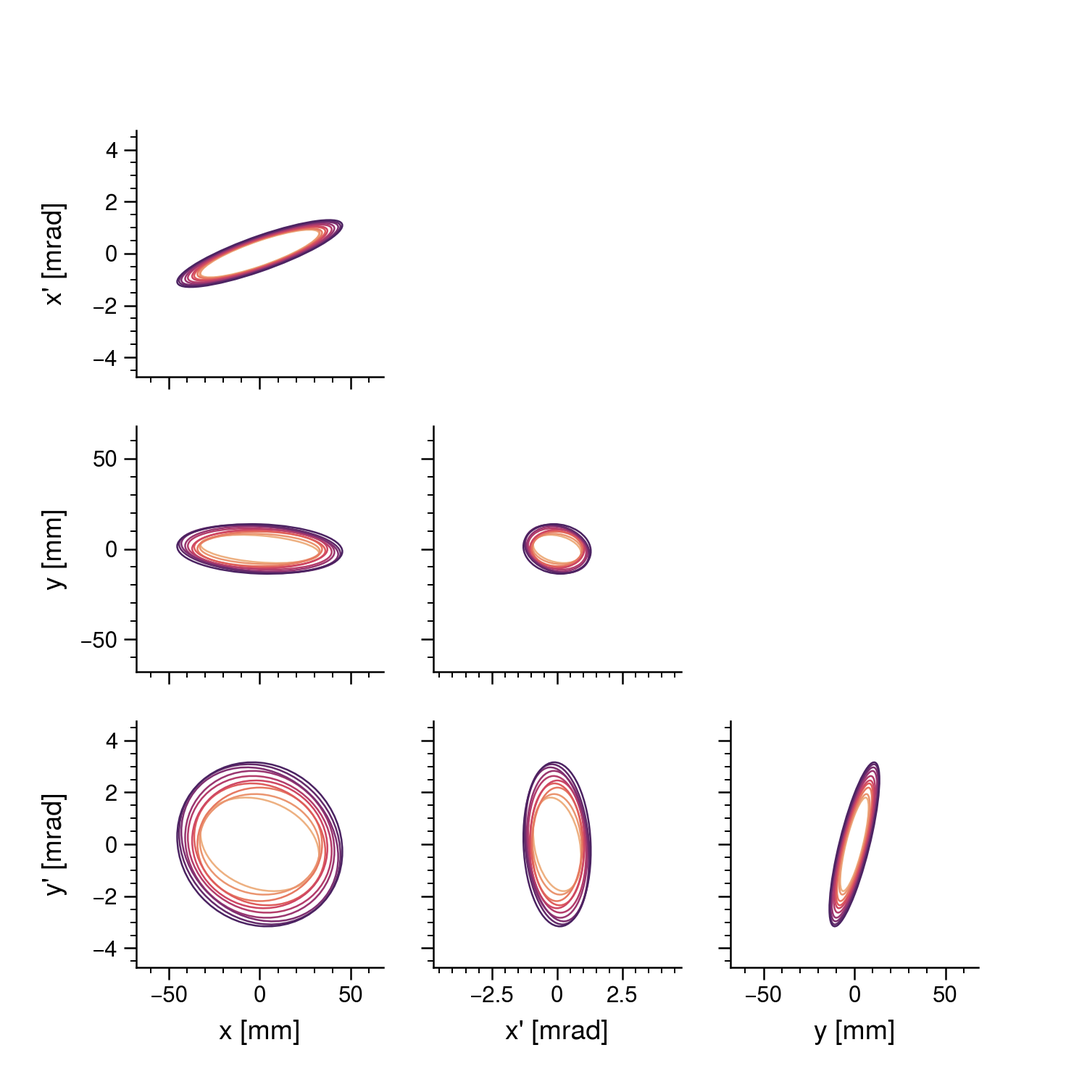
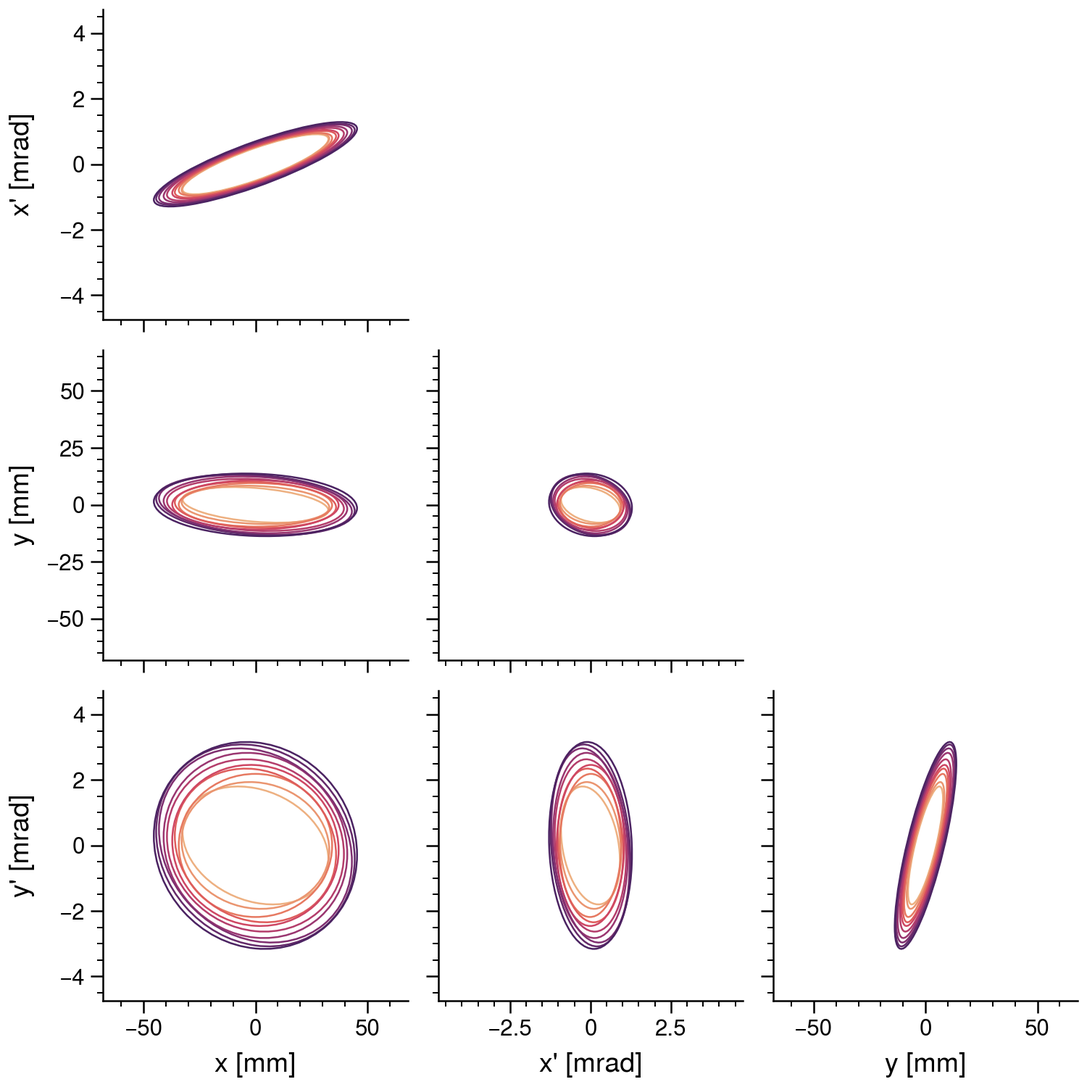
Condense reconstructed emittance figures

diff --git a/MainText/chapter5.tex b/MainText/chapter5.tex
@@ -1,7 +1,7 @@
 \chapter{Experiments} \label{chap-5}
 
 [Grammar is unchecked...]
-This chapter presents the results of initial experimental studies of elliptical painting at the SNS. The simulations in chapter \ref{chap-2}-\ref{chap-3} were used to guide the experiments, and the diagnostics described in chapter \ref{chap-4} were used to measure the painted distribution. Recall from chapter \ref{chap-3} that solenoid magnetic fields should help the distribution remain close to a Danilov distribution during injection; solenoid magnets were planned to be installed in the SNS ring in 2021, but their installation was delayed until mid-2022, outside the dogmatic of this dissertation. Thus, the beams created in the following experiments were not expected to be optimal. Nonetheless, it was hoped that the beams would be clearly distinguishable from a production beam produced by correlated painting. 
+This chapter presents the results of initial experimental studies of elliptical painting at the SNS. The simulations in chapter \ref{chap-2}-\ref{chap-3} were used to guide the experiments, and the diagnostics described in chapter \ref{chap-4} were used to measure the painted distribution. Recall from chapter \ref{chap-3} that solenoid magnetic fields should help the distribution remain close to a Danilov distribution during injection; solenoid magnets were planned to be installed in the SNS ring in 2021, but their installation was delayed until mid-2022, outside the timeframe of this dissertation. Thus, the beams created in the following experiments were not expected to be optimal. Nonetheless, it was hoped that the beams would be clearly distinguishable from a production beam produced by correlated painting. 
 
 
 \section{Procedure}
@@ -15,16 +15,16 @@ The following steps are taken during the experimental setup:
     The beam energy is lowered from 1.0 GeV to 0.8 GeV by turning off several RF cavities at the end of the linac. This is performed by the SNS operations team. Generally, lowering the energy causes other accelerator components to trip or malfunction due to the modified timing system; these must be corrected one-by-one. The first attempt to lower the energy to 0.8 GeV took over six hours.
     %
     \item
-    The horizontal and vertical tunes are set to the same value using the Ring Optics Control (ROC) application. ROC varies several quadrupoles until the model tunes are equal to the desired tunes. The tunes are measured using turn-by-turn BPM readings from a single minipulse in the ring. Generally, the measured and model tunes are not quite equal; we therefore shift the ROC input tunes until they agree with the measured tunes. The measured tunes are assumed to be accurate to at least two decimal places.
+    The horizontal and vertical tunes are set to the same value using the Ring Optics Control (ROC) application. ROC varies several quadrupoles until the model tunes are equal to the desired tunes. The tunes are measured using turn-by-turn BPM readings from a single minipulse in the ring. Generally, the measured and model tunes are not quite equal; we therefore shift the ROC input tunes until the measured tunes converge to the desired tunes. 
     %
     \item
-    (Optional: Modify the injection region in some way to increase the effective kicker strength.)
+    (Optional: Modify the injection region in some way to assist the injection kickers.)
     %
     \item
     The eight injection kicker magnets are calibrated using the Ring Injection Control (RIC) application, as described in chapter \ref{chap-1}. 
     %
     \item
-    The initial/final kicker voltages are determined to obtain the desired closed-orbit coordinates at the foil, as described in \ref{chap-1}.
+    The initial/final kicker voltages are determined to obtain the desired closed-orbit coordinates at the foil, as described in chapter \ref{chap-1}.
     %
     \item
     The initial/final voltages are connected with a square root waveform; the waveform is applied to the injection kickers. The duration of the waveform — the painting time — is chosen at this step but can be easily changed later on. The painting time determines the number of minipulses in the final distribution; i.e., the beam intensity.
@@ -34,20 +34,22 @@ The following steps are taken during the experimental setup:
     %
 \end{enumerate}
 %
-The next task is to prepare for the measurements. For the wire-scanner measurement, the first step is to modify the RTBT optics using the application developed as part of this dissertation. If the fixed-optics method is used, the optics are changed immediately. If the multi-optics method is used, the optics are pre-computed and stored for later use. The SNS employs a sophisticated machine protection system (MPS) that will cause the machine to trip if the RTBT quadrupole strengths wander outside a certain window, so this window is extended beforehand. Additionally, MPS will activate if the fractional change in field strength is too large; to solve this problem, the field strength is changed in small steps. Wire-scanner data acquisition is performed by the Profile Tools and Analysis (PTA) application. The beam is set to a pulse frequency of 1 Hz, and the beam loss monitors in the wire-scanner region are masked due to the higher-than-normal losses when the wires cross the beam core. After the four wire-scanners complete their scan, a time-stamped file containing the measured profiles along with their statistical properties (mean, standard deviation, etc.). 
+The next task is to prepare for the measurements. For the wire-scanner measurement, the first step is to modify the RTBT optics using the application developed as part of this dissertation. If the fixed-optics method is used, the optics are changed immediately. If the multi-optics method is used, the optics are pre-computed and stored for later use. The SNS employs a sophisticated machine protection system (MPS) that will cause the machine to trip if the RTBT quadrupole strengths wander outside a certain window, so this window is extended beforehand. Additionally, MPS will activate if the fractional change in field strength is too large; to solve this problem, the field strength is changed in small steps. Wire-scanner data acquisition is performed by the Profile Tools and Analysis (PTA) application. The beam is set to a pulse frequency of 1 Hz, and the beam loss monitors in the wire-scanner region are masked due to the higher-than-normal losses when the wires cross the beam core. After the four wire-scanners complete their scan, a time-stamped file is produced containing the measured profiles.
 
-The second measurement is the tomographic reconstruction from $x$-$y$ projections on the target. Since the optics calculation is time-consuming, it is generally run in the background while wire-scans are collected; the quadrupole strengths are saved to a file. Since the use the target images for tomographic reconstruction was proposed late in this research, the target scan was only performed in the last of the following experiments.
+The second measurement is the tomographic reconstruction from $x$-$y$ projections on the target. Since the optics calculation is time-consuming, it can be run in the background while wire-scans are collected. Since the use the target images for tomographic reconstruction was proposed late in this research, the target scan was only performed in the last of the following experiments.
 
 
 \section{Experiment 1}
 
-The SNS reserves approximately one day per month for accelerator physics experiments, and various experiments must compete for time within this twenty-four hour period. At the time of our first experiment, setup of the injection region using the RIC application had not yet been completed; although simulations indicated that the kickers were not strong enough to perform elliptical painting at 1 GeV kinetic energy, this had not been tested in reality. And the SNS energy had not yet been decreased — a time-consuming and possibly error-prone task. The goal of Experiment 1 was therefore to push the injected coordinates $x$ and $y'$ to their limits at 1 GeV.
+The SNS reserves approximately one day per month for accelerator physics experiments, and various experiments must compete for time within this twenty-four hour period. At the time of our first experiment, setup of the injection region using the RIC application had not yet been completed. Although simulations indicated that the kickers were not strong enough to perform elliptical painting at 1 GeV kinetic energy, this had not been tested. And the SNS energy had not yet been decreased — a time-consuming and possibly error-prone task. The goal of Experiment 1 was therefore to push the injected coordinates $x$ and $y'$ to their limits at 1 GeV.
 
 Simulations predict that the distribution will undergo significant change during injection, especially without the presence of solenoid magnets in the ring; therefore, it is interesting to measure the distribution not only at its final state, but also at the intermediate states. Using the fixed-optics method, ten measurements can be performed within one hour. 
 
-\subsection{Correlated painting}
+\subsection{Experiment 1a: correlated painting}
 
-Before setting up for elliptical painting, a production beam was measured for comparison. Recall that a production beam is produced using correlated painting: the displacements at the foil are increased from an initial offset to their final value, and the slope at the foil is always zero. The number of injected turns was reduced from 1000 to 500, and the beam was measured every 50 turns. The measured wire-scanner profiles are shown in Fig.~\ref{fig:exp1a_wsmeas}, and the reconstructed emittances and covariance ellipses are shown in Fig.~\ref{fig:exp1a_emittances}.
+Before setting up for elliptical painting, a production beam was measured for comparison. Recall that a production beam is produced using correlated painting: the displacements at the foil are increased from an initial offset to their final value, and the slope at the foil is always zero. The number of injected turns was reduced from 1000 to 500, and the beam was measured every 50 turns. 
+
+The measured wire-scanner profiles are shown in Fig.~\ref{fig:exp1a_wsmeas}, and the reconstructed emittances and covariance ellipses are shown in Fig.~\ref{fig:exp1a_emittances}.
 %
 \begin{figure}[!p]
     \centering
@@ -60,7 +62,7 @@ Before setting up for elliptical painting, a production beam was measured for co
     \begin{subfigure}{\textwidth}
         \includegraphics[width=\textwidth]{Images/chapter5/exp1a/rms.png}
     \end{subfigure}
-    \caption{Measured wire-scanner profiles during injection for a 1 GeV production beam, 500 injected turns.}
+    \caption{Measured wire-scanner profiles of a 1GeV production beam during injection (500 injected turns).}
     \label{fig:exp1a_wsmeas}
 \end{figure}
 %
@@ -68,13 +70,11 @@ Before setting up for elliptical painting, a production beam was measured for co
 \begin{figure}[!p]
     \centering
     \begin{subfigure}{0.6\textwidth}
-        \includegraphics[width=\textwidth]{Images/chapter5/exp1a/emittances.png}
-    \end{subfigure}
-    \vfill
-    \vspace*{0.0cm}
-    \vfill
-    \begin{subfigure}{0.8\textwidth}
         \includegraphics[width=\textwidth]{Images/chapter5/exp1a/corner.png}
+    \end{subfigure}
+    \hfill
+    \begin{subfigure}{0.39\textwidth}
+        \includegraphics[width=\textwidth]{Images/chapter5/exp1a/emittances.png}
     \end{subfigure}
     \caption{Reconstructed emittances and covariance ellipses of a 1 GeV production beam during injection (500 turns). In this and subsequent figures, light/dark ellipses correspond to the start/end of injection.}
     \label{fig:exp1a_emittances}
@@ -83,14 +83,15 @@ Before setting up for elliptical painting, a production beam was measured for co
 
 Each subplot in Fig.~\ref{fig:exp1a_wsmeas} shows the evolution of the projection onto a single wire during injection; each row corresponds to a different wire-scanner and each column corresponds to a different projection axis — $x$, $y$, or $u$. That the closed orbit starts offset from the foil is evident from initial two peaks in the $x$ and $y$ projections. The distribution forms a ring or donut in $x$-$x'$ and $y$-$y'$, and the hollow center eventually becomes partially filled due to space charge and other nonlinear effects.
 
-The main feature of Fig.~\ref{fig:exp1a_emittances} is that there is very little measured cross-plane correlation in the beam, as expected for the correlated painting method. The error bars are instead calculated by repeating the reconstruction many times with noise added to the measured moments, then taking the mean and standard deviation over the trials. Previous measurements indicate that the moments estimated from the profiles have less than 2\% variation if repeated multiple times. This can lead to asymmetric error bars, which will be shown in the next sections. 
+The main feature of Fig.~\ref{fig:exp1a_emittances} is that there is very little measured cross-plane correlation in the beam, as expected for the correlated painting method. The error bars are calculated by repeating the reconstruction many times with noise added to the measured moments, then taking the mean and standard deviation over the trials. This can lead to asymmetric error bars, which will be shown in the next sections. (Previous measurements indicate that the moments estimated from the profiles have less than 2\% variation if repeated multiple times.)
+
 
 [Simulation]
 
 
-\subsection{Elliptical-ish painting}
+\subsection{Experiment 1b: elliptical-ish painting}
 
-Next, we attempted to carry out elliptical painting. First, [as shown in Fig.~\ref{},] the horizontal and vertical tunes were set to 6.18. Then, next was to move the closed orbit to the foil. This was found to be possible in the vertical plane but impossible in the horizontal plane; the minimum distance from the foil was 10 mm. Additionally, the maximum possible vertical slope was 0.7 mrad. It was decided to continue with the painting method using initial coordinates: ($x$, $x'$, $y$, $y'$) $\approx$ (10 mm, 0 mrad, 0 mm, 0 mrad) and final coordinates: ($x$, $x'$, $y$, $y'$) $\approx$ (21 mm, 0 mrad, 0 mm, 0.7 mrad). The initial beam would be a donut in $x$-$x'$ and a point in $y$-$y'$. In real space, it would be a flat horizontal line with higher density on the two ends of the line. In other words, injected particles would move along an ellipse in the $x$-$y$ plane with zero vertical size. As time progressed, the horizontal and vertical size of the ellipse would grow at different rates depending on the maximum painting $x$ and $y'$ coordinates. This is all assuming linear transport and non-interacting particles. Without a computer, it is unclear what would happen with the inclusion of space charge.
+Next, we attempted to carry out elliptical painting. First, [as shown in Fig.~\ref{},] the horizontal and vertical tunes were set to 6.18. The next step was to move the closed orbit to the foil. This was found to be possible in the vertical plane but impossible in the horizontal plane; the minimum distance from the foil was 10 mm. Additionally, the maximum possible vertical slope was 0.7 mrad. It was decided to continue with the painting method using initial coordinates: ($x$, $x'$, $y$, $y'$) $\approx$ (10 mm, 0 mrad, 0 mm, 0 mrad) and final coordinates: ($x$, $x'$, $y$, $y'$) $\approx$ (21 mm, 0 mrad, 0 mm, 0.7 mrad). The initial beam would be a donut in $x$-$x'$ and a point in $y$-$y'$. In real space, it would be a flat horizontal line with higher density on the two ends of the line. In other words, injected particles would move along an ellipse in the $x$-$y$ plane with zero vertical size. As time progressed, the horizontal and vertical size of the ellipse would grow at different rates depending on the maximum painting $x$ and $y'$ coordinates. This is all assuming linear transport and non-interacting particles. Without a computer, it is unclear what would happen with the inclusion of space charge.
 
 [... We should probably show some screenshots of the RIC application. Maybe not here, but somewhere. ...]
 
@@ -107,7 +108,7 @@ The measured wire-scanner profiles are shown in Fig.~\ref{fig:exp1b_wsmeas}, and
     \begin{subfigure}{\textwidth}
         \includegraphics[width=\textwidth]{Images/chapter5/exp1b/rms.png}
     \end{subfigure}
-    \caption{Measured wire-scanner profiles during injection for a 1 GeV beam. Initial injected coordinates: ($x$, $x'$, $y$, $y'$) $\approx$ (10 mm, 0 mrad, 0 mm, 0 mrad). Final injected coordinates: ($x$, $x'$, $y$, $y'$) $\approx$ (21 mm, 0 mrad, 0 mm, 0.7 mrad).}
+    \caption{Measured wire-scanner profiles of a 1 GeV beam during injection. Initial injected coordinates: ($x$, $x'$, $y$, $y'$) $\approx$ (10 mm, 0 mrad, 0 mm, 0 mrad). Final injected coordinates: ($x$, $x'$, $y$, $y'$) $\approx$ (21 mm, 0 mrad, 0 mm, 0.7 mrad).}
     \label{fig:exp1b_wsmeas}
 \end{figure}
 %
@@ -115,32 +116,60 @@ The measured wire-scanner profiles are shown in Fig.~\ref{fig:exp1b_wsmeas}, and
 \begin{figure}[!p]
     \centering
     \begin{subfigure}{0.6\textwidth}
-        \includegraphics[width=\textwidth]{Images/chapter5/exp1b/emittances.png}
-    \end{subfigure}
-    \vfill
-    \vspace*{-0.2cm}
-    \vfill
-    \begin{subfigure}{0.8\textwidth}
         \includegraphics[width=\textwidth]{Images/chapter5/exp1b/corner.png}
     \end{subfigure}
-    \caption{Reconstructed emittances and covariance ellipses for a 1 GeV beam. Initial injected coordinates: ($x$, $x'$, $y$, $y'$) $\approx$ (10 mm, 0 mrad, 0 mm, 0 mrad). Final injected coordinates: ($x$, $x'$, $y$, $y'$) $\approx$ (21 mm, 0 mrad, 0 mm, 0.7 mrad).}
+    \hfill
+    \begin{subfigure}[t]{0.39\textwidth}
+        \includegraphics[width=\textwidth]{Images/chapter5/exp1b/emittances.png}
+    \end{subfigure}
+    \caption{Reconstructed emittances and covariance ellipses of a 1 GeV beam. Initial injected coordinates: ($x$, $x'$, $y$, $y'$) $\approx$ (10 mm, 0 mrad, 0 mm, 0 mrad). Final injected coordinates: ($x$, $x'$, $y$, $y'$) $\approx$ (21 mm, 0 mrad, 0 mm, 0.7 mrad).}
     \label{fig:exp1b_emittances}
 \end{figure}
 %
 Notice the difference in the growth of the vertical beam size in comparison with the horizontal size. The $x$-$x'$ distribution is a donut that fills in over time while also growing in radius, hence the relative lack of growth in the horizontal beam size. The vertical beam size, on the other hand, starts at a small value and increases throughout injection, as desired. Additionally, there is now a clear separation between the intrinsic emittances.
 
-[Some thoughts: Might want to mention something about the comparison with the target images. We seem to be over-estimating the horizontal size and under-estimating the vertical size. Additionally, although the initial image is significantly tilted, the wire-scanner measurement gets the tilt angle wrong. This decreases my trust in these measurements. On the other hand, the $x$-$x'$ reconstruction has produced values very close to the model prediction for a production beam. Also, the intrinsic emittances are a complicated function of the beam moments, so they are probably not so sensitive to these systematic errors. Maybe what we have is some systematic error in the beam size due to the small number of points in the wire-scans?]
+[Some thoughts: Might want to mention something about the comparison with the target images. We seem to be over-estimating the horizontal size and under-estimating the vertical size. Additionally, although the initial image is significantly tilted, the wire-scanner measurement gets the tilt angle wrong. This decreases my trust in these measurements. On the other hand, the $x$-$x'$ reconstruction has produced values that are close to the model prediction for a production beam. Also, the intrinsic emittances are a complicated function of the beam moments, so they are probably not so sensitive to these systematic errors. Maybe what we have is some systematic error in the beam size due to the small number of points in the wire-scans?]
+
+We close with a PIC simulation of this case in Fig.~\ref{fig:exp1b_sim}. 
+%
+\begin{figure}[!p]
+    \centering
+    \begin{subfigure}{0.85\textwidth}
+        \includegraphics[width=\textwidth]{Images/chapter5/exp1b/sim_snapshots.png}
+    \end{subfigure}
+    \vfill
+    \vspace*{1.0cm}
+    \vfill
+    \begin{subfigure}{0.7\textwidth}
+        \includegraphics[width=\textwidth]{Images/chapter5/exp1b/sim_emittances.png}
+    \end{subfigure}
+    \caption{Simulation of experiment 1b. [RE-RUN WITH SLICED SPACE CHARGE AND TRANSVERSE IMPEDANCE.]}
+    \label{fig:exp1b_sim}
+\end{figure}
+%
+Again, keep in mind that the $\beta$ functions at the injection point are not exactly the same as in the experiment, so the absolute values of the emittances are not expected to agree. Instead, we hope to see qualitative agreement with the measured emittance growth. And we do: the e 
+
 
 
 
 \section{Experiment 2}
 
-In Experiment 2, the beam energy was lowered to 0.8 GeV for the first time. The closed orbit was successfuly reached to the foil, and a maximum vertical slope of 1.1 mrad was achieved. 
+In Experiment 2, the beam energy was lowered to 0.8 GeV for the first time. The closed orbit was able to reach the foil, and a maximum vertical slope of ${y'}_{max} \approx 1.1$ mrad was achieved. This is significantly smaller that the 1.7 mrad used in the simulations from \cite{Holmes2018}. 
 
-Before beginning the emittance measurement, we attempted to change the orbit corrector dipoles in the injection region to increase the maximum vertical slope. 
+In the setup procedure, an optional step was listed: 3. Modify the injection region in some way to assist the injection kickers. There are several tricks that can be played to increase ${y'}_{max}$. One option would be to move the foil farther into the beam pipe, but this is undesired because it would require modification of the trajectory of the surviving hydrogen ions. Another option is to use the vertical orbit corrector dipoles in the injection region to increase the maximum vertical slope. This is not straightforward in reality because the correctors are already used to flatten the orbit during neutron production.
 
-[... Mention failed attempt to optimize the orbit corrector dipoles in the injection region. ...]
+There are two correctors before and after the foil. Our strategy was to manually change the first two correctors, then use the second two correctors and every other corrector in the ring to flatten the orbit (using an existing Orbit Correction application). There are four options for the sign of the changes applied to the first two correctors: $\uparrow\uparrow$, $\uparrow\downarrow$, $\downarrow\uparrow$, $\downarrow\downarrow$. For each option, a small change was applied to the dipole currents and the injection kickers were asked to maximize the vertical slope at the foil. This did not work; modifying the correctors lead to significnat closed-orbit waves throughout the ring that could not be flattened. The use of orbit correctors is left as a future optimization. 
 
+The remaining free parameters are the beam intensity and the maximum horizontal position $x_{max}$. Assuming $\alpha \approx 0$ at the injection point, the ratio of painted emittances is
+%
+\begin{equation}
+    \frac{\varepsilon_y}{\varepsilon_x} \approx 
+    \beta_x \beta_y \left(\frac{{y'}_{max}}{x_{max}}\right)^2 
+\end{equation}
+%
+It is desirable to paint equal emittances. In simulations, this can easily be achieved since the $\beta$ functions are known. In reality, the exact $\beta$ functions are unknown. The model $\beta$ functions at the injection point are both near 10 mm/mrad; for $y'_{max}$ = 1 mrad, this would require $x_{max}$ = 10 mm — a small beam. But we must keep in mind that the ratio is quite sensitive to changes in $\beta_{x, y}$; for example, $\beta_x$ = $\beta_y$ = 11 m/rad would produce $\varepsilon_y / \varepsilon_x \approx 1.5$. We decided to use $x_{max}$ = 21 mm. The beam intensity was kept at 500 injected turns, or roughly $0.75 \times 10^{14}$ protons.
+
+The measured wire-scanner profiles are shown in Fig.~\ref{fig:exp2_wsmeas}, and the reconstructed emittances and covariance ellipses are shown in Fig.~\ref{fig:exp2_emittances}.
 %
 \begin{figure}[!p]
     \centering
@@ -153,30 +182,34 @@ Before beginning the emittance measurement, we attempted to change the orbit cor
     \begin{subfigure}{\textwidth}
         \includegraphics[width=\textwidth]{Images/chapter5/exp2/rms.png}
     \end{subfigure}
-    \caption{Measured wire-scanner profiles during injection for a 0.8 GeV beam. Initial injected coordinates: ($x$, $x'$, $y$, $y'$) $\approx$ (0 mm, 0 mrad, 0 mm, 0 mrad). Final injected coordinates: ($x$, $x'$, $y$, $y'$) $\approx$ (21 mm, 0 mrad, 0 mm, 1.1 mrad).}
+    \caption{Measured wire-scanner profiles during injection of a 0.8 GeV beam. Initial injected coordinates: ($x$, $x'$, $y$, $y'$) $\approx$ (0 mm, 0 mrad, 0 mm, 0 mrad). Final injected coordinates: ($x$, $x'$, $y$, $y'$) $\approx$ (21 mm, 0 mrad, 0 mm, 1.1 mrad).}
     \label{fig:exp2_wsmeas}
 \end{figure}
 %
-
 %
 \begin{figure}[!p]
     \centering
     \begin{subfigure}{0.6\textwidth}
-        \includegraphics[width=\textwidth]{Images/chapter5/exp2/emittances.png}
-    \end{subfigure}
-    \vfill
-    \vspace*{-0.2cm}
-    \vfill
-    \begin{subfigure}{0.8\textwidth}
         \includegraphics[width=\textwidth]{Images/chapter5/exp2/corner.png}
+    \end{subfigure}
+    \hfill
+    \begin{subfigure}{0.39\textwidth}
+        \includegraphics[width=\textwidth]{Images/chapter5/exp2/emittances.png}
     \end{subfigure}
     \caption{Reconstructed emittances and covariance ellipses of a 0.8 GeV beam during injection. Initial injected coordinates: ($x$, $x'$, $y$, $y'$) $\approx$ (0 mm, 0 mrad, 0 mm, 0 mrad). Final injected coordinates: ($x$, $x'$, $y$, $y'$) $\approx$ (21 mm, 0 mrad, 0 mm, 1.1 mrad).}
     \label{fig:exp2_emittances}
 \end{figure}
 %
+The apparent emittances increase linearly from a small initial value, as desired. The intrinsic emittances begin to split in the late stages of injection. 
+
+Simulations show that space charge is very strong at this intensity, energy, and beam size. 
+
+
 
 \section{Experiment 3}
 
+
+The goal of experiment 3 was to observe how the measured intrinsic emittances responded to the 
 
 %
 \begin{figure}[!p]
@@ -190,22 +223,19 @@ Before beginning the emittance measurement, we attempted to change the orbit cor
     \begin{subfigure}{\textwidth}
         \includegraphics[width=\textwidth]{Images/chapter5/exp3/rms.png}
     \end{subfigure}
-    \caption{Measured wire-scanner profiles during injection for a 0.8 GeV beam. Initial injected coordinates: ($x$, $x'$, $y$, $y'$) $\approx$ (0 mm, 0 mrad, 0 mm, 0 mrad). Final injected coordinates: ($x$, $x'$, $y$, $y'$) $\approx$ (31 mm, 0 mrad, 0 mm, 1.1 mrad).}
+    \caption{Measured wire-scanner profiles of a 0.8 GeV beam during injection. Initial injected coordinates: ($x$, $x'$, $y$, $y'$) $\approx$ (0 mm, 0 mrad, 0 mm, 0 mrad). Final injected coordinates: ($x$, $x'$, $y$, $y'$) $\approx$ (31 mm, 0 mrad, 0 mm, 1.1 mrad). 400 injected turns.}
     \label{fig:exp3_wsmeas}
 \end{figure}
 %
-
 %
 \begin{figure}[!p]
     \centering
     \begin{subfigure}{0.6\textwidth}
-        \includegraphics[width=\textwidth]{Images/chapter5/exp3/emittances.png}
-    \end{subfigure}
-    \vfill
-    \vspace*{-0.2cm}
-    \vfill
-    \begin{subfigure}{0.8\textwidth}
         \includegraphics[width=\textwidth]{Images/chapter5/exp3/corner.png}
+    \end{subfigure}
+    \hfill
+    \begin{subfigure}{0.39\textwidth}
+        \includegraphics[width=\textwidth]{Images/chapter5/exp3/emittances.png}
     \end{subfigure}
     \caption{Reconstructed emittances and covariance ellipses of a 0.8 GeV beam during injection. Initial injected coordinates: ($x$, $x'$, $y$, $y'$) $\approx$ (0 mm, 0 mrad, 0 mm, 0 mrad). Final injected coordinates: ($x$, $x'$, $y$, $y'$) $\approx$ (31 mm, 0 mrad, 0 mm, 1.1 mrad).}
     \label{fig:exp3_emittances}
